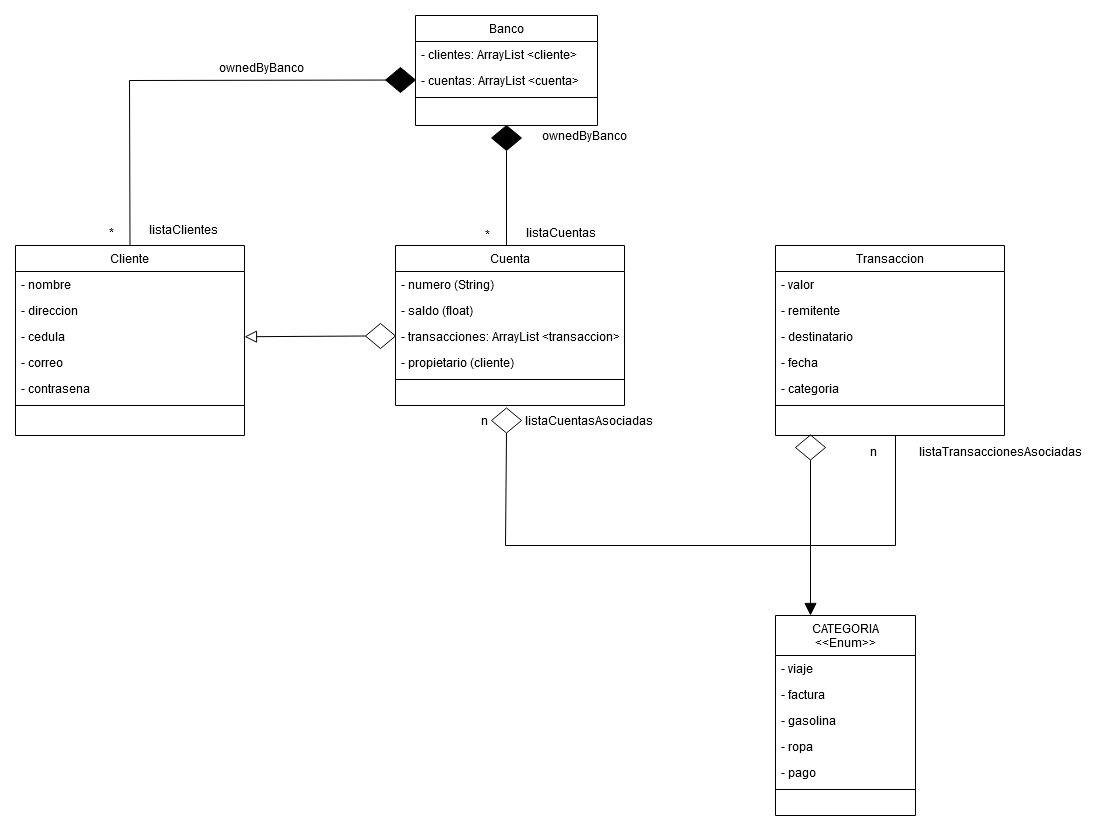
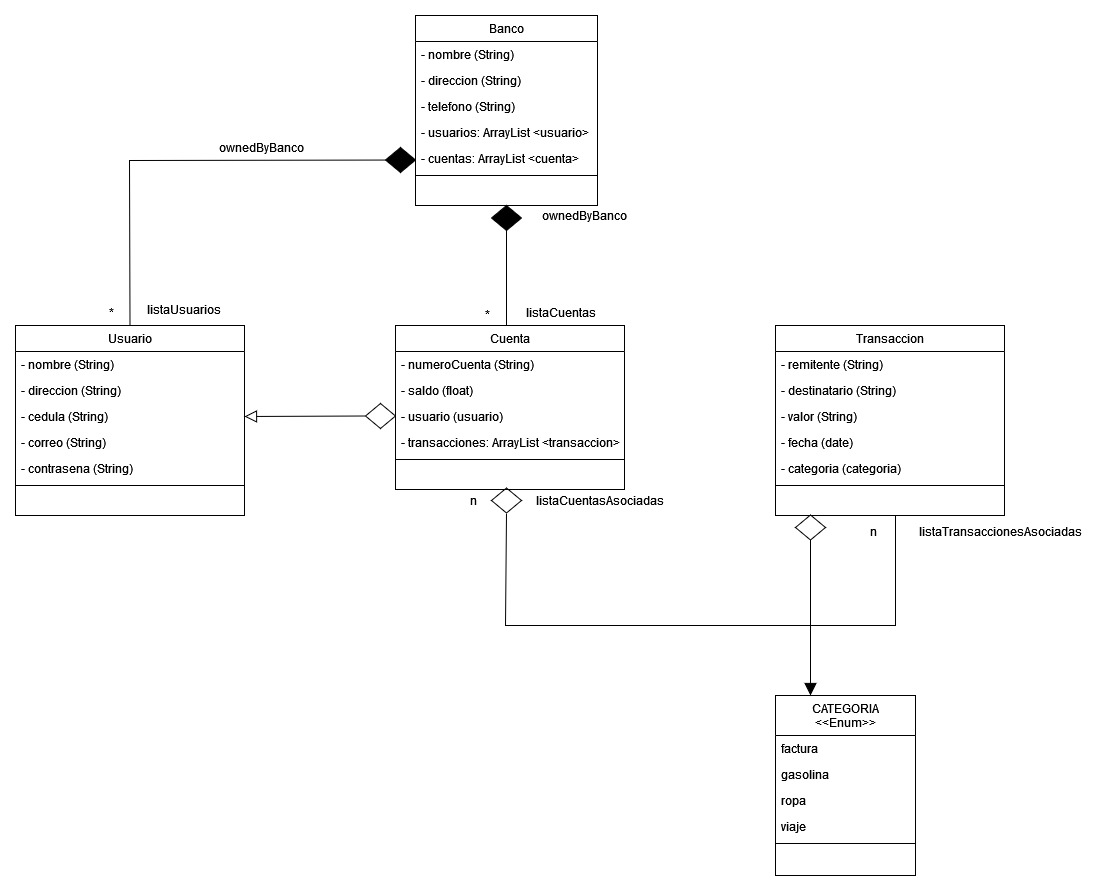
Creación Transacciones y Ajuste de Métodos
Se realiza la creación del método de creación de transacciones y se corrigen varios métodos de todas las clases

diff --git a/co.edu.uniquindio.tallerBanco/src/main/java/co/edu/uniquindio/tallerBanco/model/Banco.java b/co.edu.uniquindio.tallerBanco/src/main/java/co/edu/uniquindio/tallerBanco/model/Banco.java
@@ -1,7 +1,12 @@
 package co.edu.uniquindio.tallerBanco.model;
 
+import co.edu.uniquindio.tallerBanco.enumeracion.Categoria;
+import co.edu.uniquindio.tallerBanco.enumeracion.TipoTransaccion;
+
 import java.util.ArrayList;
+import java.util.Date;
 import java.util.List;
+import java.time.LocalDateTime;
 import java.util.Objects;
 
 public class Banco {
@@ -14,10 +19,9 @@ public class Banco {
     private String telefono;
 
     /**
-     * ArrayList de las Clases Creadas
+     * ArrayList Relacionadas de la Clase
      */
     List<Usuario> listaUsuarios = new ArrayList<>();
-    List<Transaccion> listaTransacciones = new ArrayList<>();
     List<Cuenta> listaCuentas = new ArrayList<>();
 
     /**
@@ -67,7 +71,7 @@ public class Banco {
     }
 
     /**
-     * Getters y Setters de ArrayList de las Clases Creadas
+     * Getters y Setters de ArrayList Relacionadas de la Clase
      * @return
      */
     public List<Usuario> getListaUsuarios() {
@@ -76,14 +80,6 @@ public class Banco {
 
     public void setListaUsuarios(List<Usuario> listaUsuarios) {
         this.listaUsuarios = listaUsuarios;
-    }
-
-    public List<Transaccion> getListaTransacciones() {
-        return listaTransacciones;
-    }
-
-    public void setListaTransacciones(List<Transaccion> listaTransacciones) {
-        this.listaTransacciones = listaTransacciones;
     }
 
     public List<Cuenta> getListaCuentas() {
@@ -221,5 +217,74 @@ public class Banco {
                 break;
             }
         }
+    }
+
+    /**
+     * Método para Determinar si Existe o no una Cuenta
+     * @param numeroCuenta
+     * @return
+     */
+    public boolean consultarCuenta(String numeroCuenta){
+        boolean cuentaEncontrada = false;
+        for (Cuenta cuenta : cuentas) {
+            if (cuenta.getCedula().equals(numeroCuenta)) {
+                cuentaEncontrada = true;
+                break;
+            }
+        }
+        return cuentaEncontrada;
+    }
+
+    /**
+     * Método para Revisar si el Saldo de la Cuenta es necesario para Realizar la Transacción
+     * @param numeroCuenta
+     * @param monto
+     * @return
+     */
+    public boolean revisarSaldoNecesario(String numeroCuenta, float monto){
+        boolean saldoNecesario = false;
+        for (Cuenta cuenta : cuentas) {
+            if (cuenta.getcedula().equals(numeroCuenta)) {
+                double saldo = cuenta.getSaldo();
+                if (saldo >= (monto + 200)){
+                    saldoNecesario = true;
+                    break;
+                }
+                break;
+            }
+        }
+        return saldoNecesario;
+    }
+
+    /**
+     * Método para Crear Transacciones
+     * @param idCuentaOrigen
+     * @param idCuentaDestino
+     * @param valorTransferencia
+     * @param categoriaGasto
+     * @return
+     */
+    public boolean crearTransaccion(String cuentaOrigen, String cuentaDestino, float valor,
+                                    Categoria categoria){
+        boolean transaccionExitosa = false;
+
+        Cuenta cuentaOrigen = obtenerCuenta(cuentaOrigen);
+        Cuenta cuentaDestino = obtenerCuenta(cuentaDestino);
+
+        if (consultarCuenta(cuentaDestino) && consultarCuenta(cuentaOrigen) &&
+                revisarSaldoNecesario(cuentaDestino, valor)) {
+            Transaccion transaccionCuentaOrigen = new Transaccion(cuentaOrigen, cuentaDestino, valor,
+                    categoria, TipoTransaccion.SALIDA);
+            cuentaOrigen.getListaTransacciones().add(transaccionCuentaOrigen);
+            cuentaOrigen.setSaldo(cuentaOrigen.getSaldo()-valorTransferencia-200);
+
+            Transaccion transaccionCuentaLlegada = new Transaccion(cuentaOrigen, cuentaDestino, valor,
+                    categoria, TipoTransaccion.ENTRADA);
+            cuentaDestino.getListaTransaciones().add(transaccionCuentaLlegada);
+            cuentaDestino.setSaldo(cuentaDestino.getSaldo()+valorTransferencia);
+
+            trasaccionExitosa = true;
+        }
+        return trasaccionExitosa;
     }
 }

diff --git a/co.edu.uniquindio.tallerBanco/src/main/java/co/edu/uniquindio/tallerBanco/model/Transaccion.java b/co.edu.uniquindio.tallerBanco/src/main/java/co/edu/uniquindio/tallerBanco/model/Transaccion.java
@@ -1,6 +1,10 @@
 package co.edu.uniquindio.tallerBanco.model;
 
 import co.edu.uniquindio.tallerBanco.enumeracion.Categoria;
+import co.edu.uniquindio.tallerBanco.enumeracion.TipoTransaccion;
+
+import java.time.LocalDateTime;
+import java.util.Date;
 
 public class Transaccion {
 
@@ -8,9 +12,14 @@ public class Transaccion {
      * Atributos Clase Transaccion
      */
     private String remitente;
+    private Cuenta cuentaOrigen;
     private String destinatario;
-    private String valor;
+    private Cuenta cuentaDestino;
+    private float valor;
+    private date fecha;
     private Categoria categoria;
+    private short costo;
+    private TipoTransaccion tipoTransaccion;
 
     /**
      * Variable para Relacionar Padre
@@ -26,15 +35,27 @@ public class Transaccion {
     /**
      * Constructor con Parámetros
      * @param remitente
+     * @param cuentaOrigen
      * @param destinatario
+     * @param cuentaDestino
      * @param valor
+     * @param fecha
      * @param categoria
+     * @param costo
+     * @param tipoTransaccion
      */
-    public Transaccion(String remitente, String destinatario, String valor, Categoria categoria) {
+    public Transaccion(String remitente, Cuenta cuentaOrigen, String destinatario, Cuenta cuentaDestino,
+                       float valor, date fecha, Categoria categoria, short costo, TipoTransaccion
+                               tipoTransaccion) {
         this.remitente = remitente;
+        this.cuentaOrigen = cuentaOrigen;
         this.destinatario = destinatario;
+        this.cuentaDestino = cuentaDestino;
         this.valor = valor;
+        this.fecha = new Date();
         this.categoria = categoria;
+        this.costo = 200;
+        this.tipoTransaccion = tipoTransaccion;
     }
 
     /**
@@ -49,6 +70,14 @@ public class Transaccion {
         this.remitente = remitente;
     }
 
+    public Cuenta getCuentaOrigen() {
+        return cuentaOrigen;
+    }
+
+    public void setCuentaOrigen(Cuenta cuentaOrigen) {
+        this.cuentaOrigen = cuentaOrigen;
+    }
+
     public String getDestinatario() {
         return destinatario;
     }
@@ -57,12 +86,28 @@ public class Transaccion {
         this.destinatario = destinatario;
     }
 
-    public String getValor() {
+    public Cuenta getCuentaDestino() {
+        return cuentaDestino;
+    }
+
+    public void setCuentaDestino(Cuenta cuentaDestino) {
+        this.cuentaDestino = cuentaDestino;
+    }
+
+    public float getValor() {
         return valor;
     }
 
-    public void setValor(String valor) {
+    public void setValor(float valor) {
         this.valor = valor;
+    }
+
+    public date getFecha() {
+        return fecha;
+    }
+
+    public void setFecha(date fecha) {
+        this.fecha = fecha;
     }
 
     public Categoria getCategoria() {
@@ -71,6 +116,22 @@ public class Transaccion {
 
     public void setCategoria(Categoria categoria) {
         this.categoria = categoria;
+    }
+
+    public short getCosto() {
+        return costo;
+    }
+
+    public void setCosto(short costo) {
+        this.costo = costo;
+    }
+
+    public TipoTransaccion getTipoTransaccion() {
+        return tipoTransaccion;
+    }
+
+    public void setTipoTransaccion(TipoTransaccion tipoTransaccion) {
+        this.tipoTransaccion = tipoTransaccion;
     }
 
     /**
@@ -92,9 +153,14 @@ public class Transaccion {
     public String toString() {
         return "Transaccion{" +
                 "remitente='" + remitente + '\'' +
+                ", cuentaOrigen=" + cuentaOrigen +
                 ", destinatario='" + destinatario + '\'' +
+                ", cuentaDestino=" + cuentaDestino +
                 ", valor='" + valor + '\'' +
+                ", fecha=" + fecha +
                 ", categoria=" + categoria +
+                ", costo=" + costo +
+                ", tipoTransaccion=" + tipoTransaccion +
                 '}';
     }
 }

diff --git a/co.edu.uniquindio.tallerBanco/src/main/java/co/edu/uniquindio/tallerBanco/model/Cuenta.java b/co.edu.uniquindio.tallerBanco/src/main/java/co/edu/uniquindio/tallerBanco/model/Cuenta.java
@@ -13,13 +13,18 @@ public class Cuenta {
      * Atributos Clase Cuenta
      */
     private String numeroCuenta;
-    private double saldo;
+    private float saldo;
     private Usuario usuario;
 
     /**
      * Variable para Relacionar Padre
      */
     Banco ownedByBanco;
+
+    /**
+     * ArrayList Relacionadas de la Clase
+     */
+    List<Transaccion> listaTransacciones = new ArrayList<>();
 
     /**
      * Constructor Vacío
@@ -77,6 +82,18 @@ public class Cuenta {
 
     public void setOwnedByBanco(Banco ownedByBanco) {
         this.ownedByBanco = ownedByBanco;
+    }
+
+    /**
+     * Getters y Setters de ArrayList Relacionadas de la Clase
+     * @return
+     */
+    public List<Transaccion> getListaTransacciones() {
+        return listaTransacciones;
+    }
+
+    public void setListaTransacciones(List<Transaccion> listaTransacciones) {
+        this.listaTransacciones = listaTransacciones;
     }
 
     /**

diff --git a/co.edu.uniquindio.tallerBanco/src/main/java/co/edu/uniquindio/tallerBanco/model/Usuario.java b/co.edu.uniquindio.tallerBanco/src/main/java/co/edu/uniquindio/tallerBanco/model/Usuario.java
@@ -1,6 +1,6 @@
 package co.edu.uniquindio.tallerBanco.model;
 
-public class Usuario extends Banco {
+public class Usuario {
 
     /**
      * Atributos de Clase Usuario
